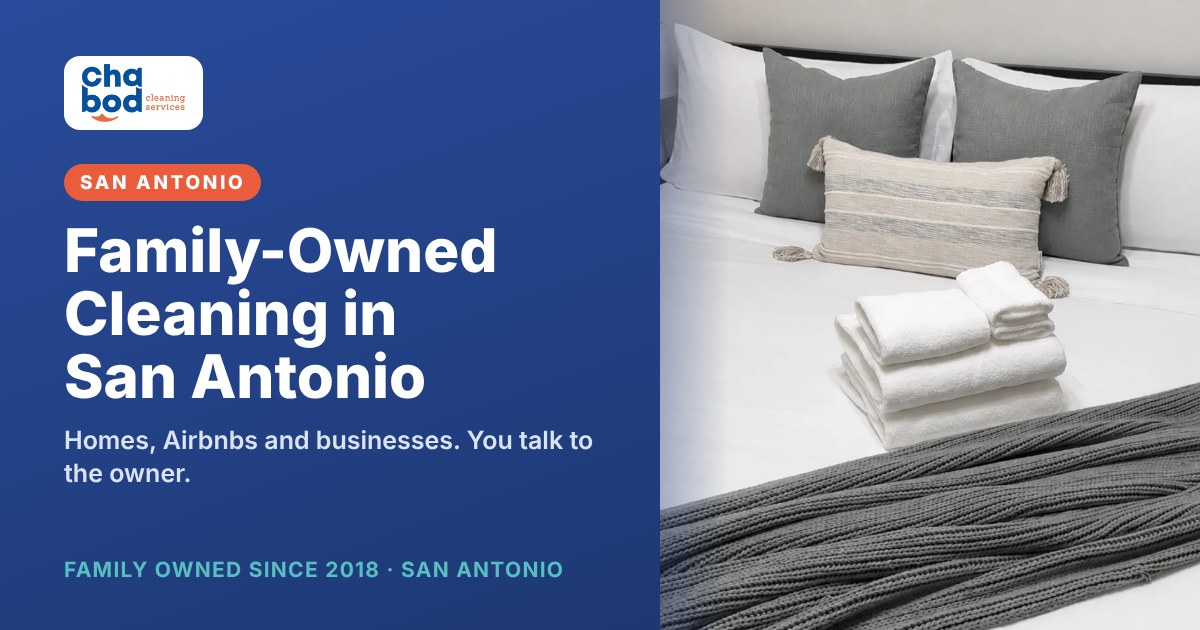
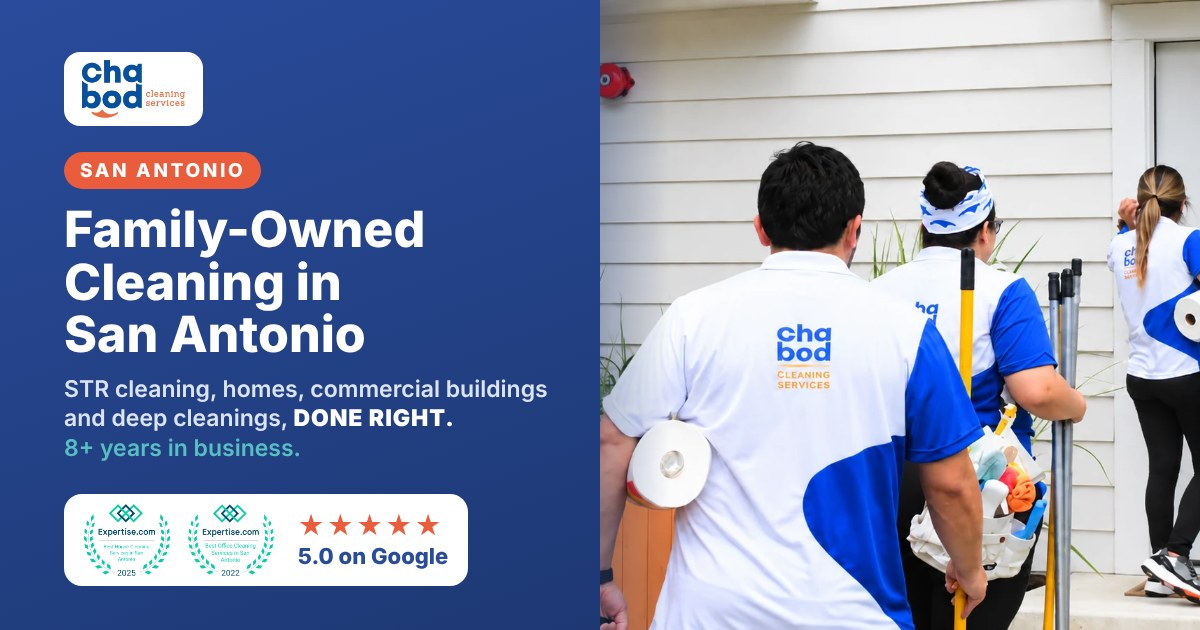
Home share picture: new version (1200x630), ?v=2 so previews refresh

diff --git a/public/index.html b/public/index.html
@@ -12,13 +12,13 @@
 <meta property="og:title" content="San Antonio Cleaning Company | Chabod Cleaning Services">
 <meta property="og:description" content="Family-owned cleaning company in San Antonio, TX since 2018. STR turnover, deep cleaning & residential cleaning. Call (210) 480-6224.">
 <meta property="og:url" content="https://chabodcleaningservices.com/">
-<meta property="og:image" content="https://chabodcleaningservices.com/og/home.jpg">
+<meta property="og:image" content="https://chabodcleaningservices.com/og/home.jpg?v=2">
 <meta property="og:image:type" content="image/jpeg">
 <meta property="og:image:width" content="1200">
 <meta property="og:image:height" content="630">
 <meta property="og:image:alt" content="Chabod Cleaning Services: Family-Owned Cleaning in San Antonio. Homes, Airbnbs and businesses. You talk to the owner.">
 <meta name="twitter:card" content="summary_large_image">
-<meta name="twitter:image" content="https://chabodcleaningservices.com/og/home.jpg">
+<meta name="twitter:image" content="https://chabodcleaningservices.com/og/home.jpg?v=2">
 <meta name="twitter:image:alt" content="Chabod Cleaning Services: Family-Owned Cleaning in San Antonio. Homes, Airbnbs and businesses. You talk to the owner.">
 <meta name="twitter:title" content="San Antonio Cleaning Company | Chabod Cleaning Services">
 <meta name="twitter:description" content="Family-owned cleaning company in San Antonio, TX since 2018. STR turnover, deep cleaning & residential cleaning. Call (210) 480-6224.">
